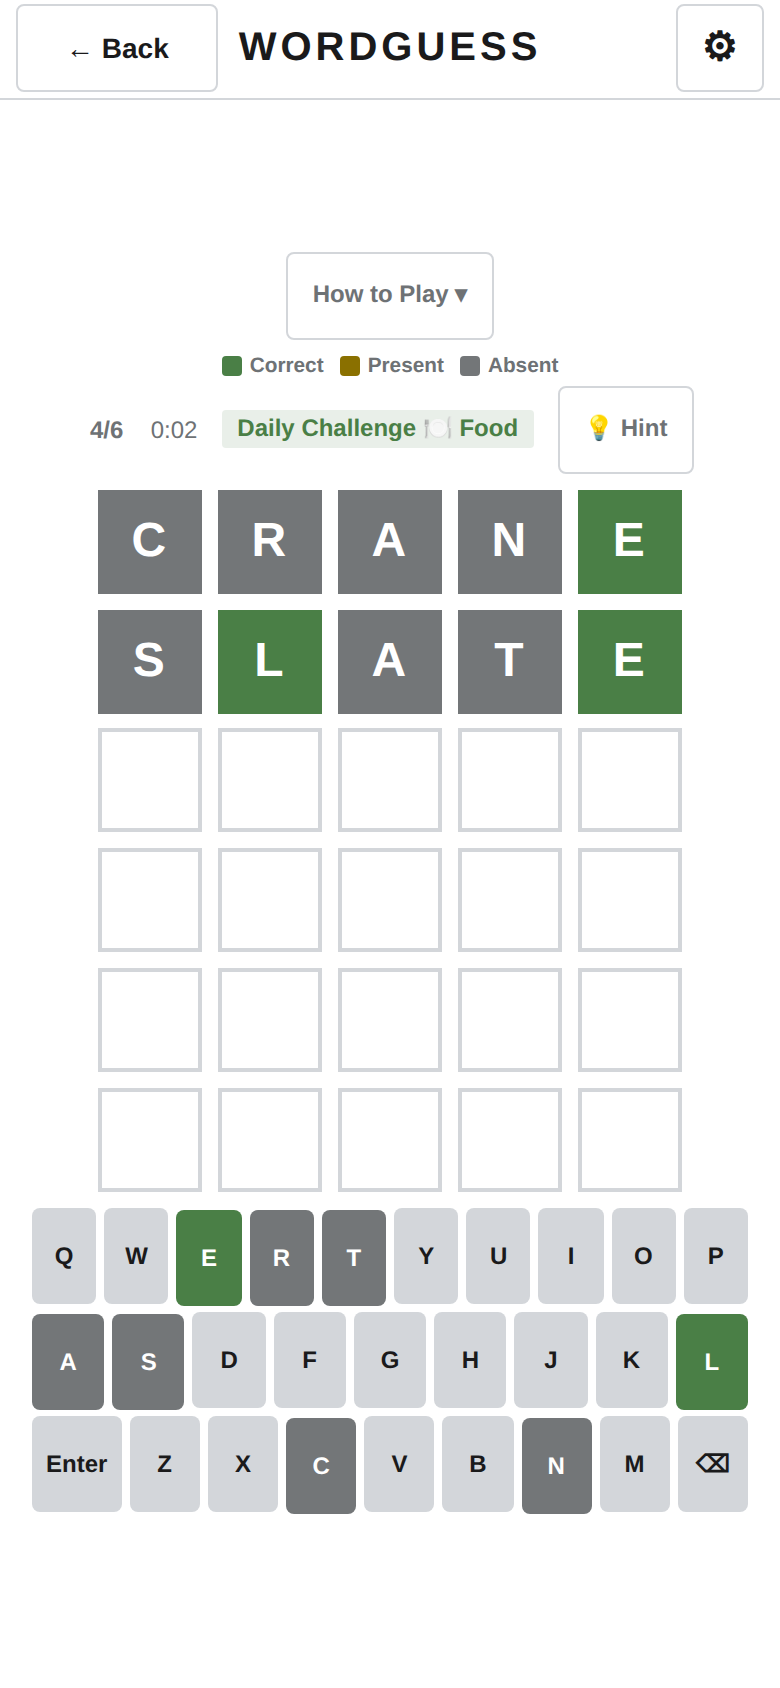
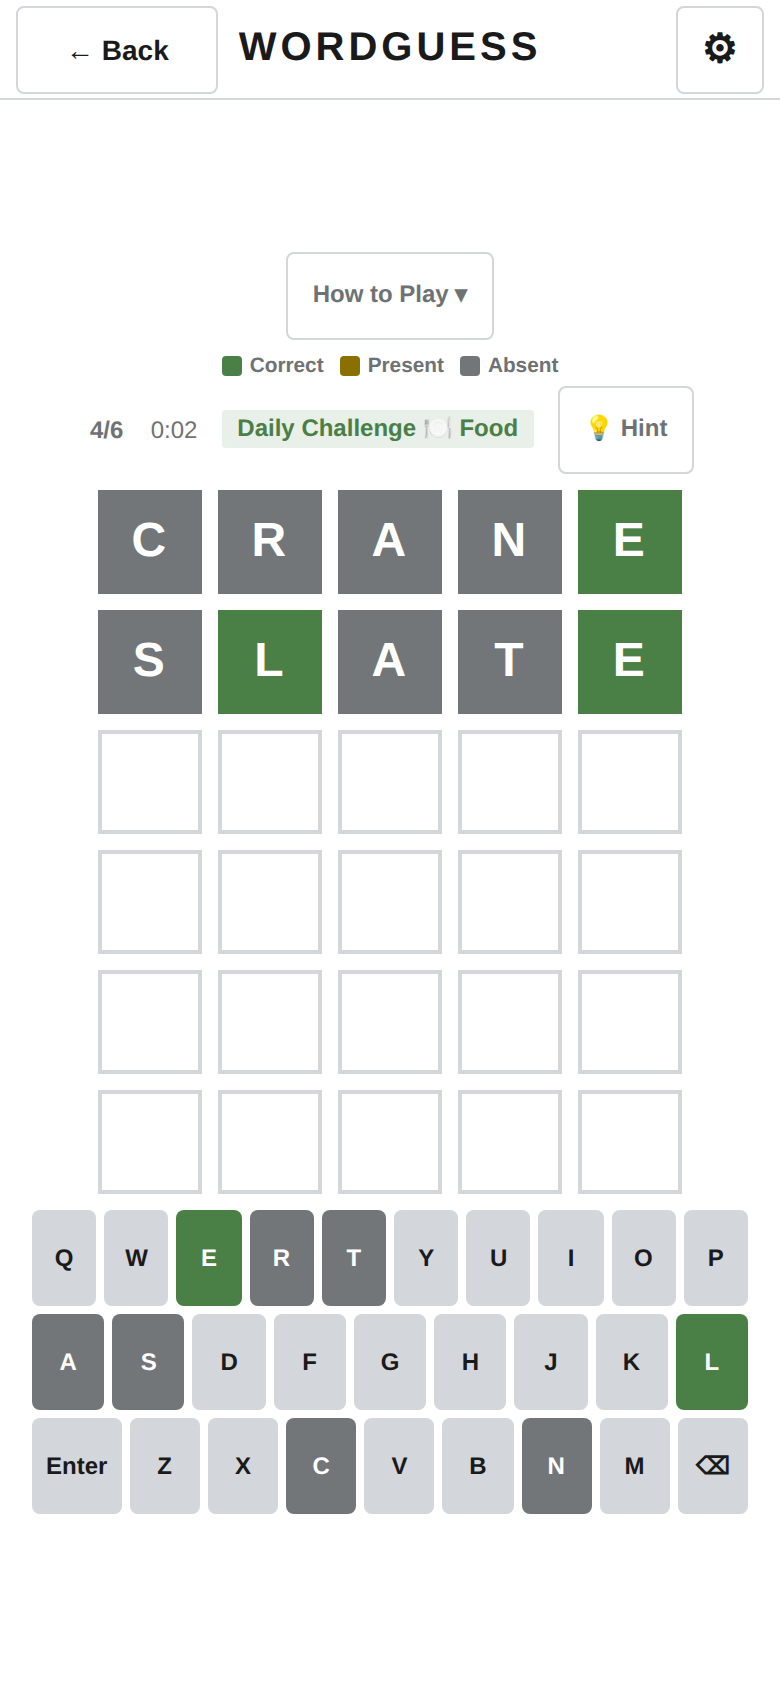
feat: landscape layout, haptics and install prompt (#11, #12, #13)
#12 was worse than "better layout for landscape phones". The stacked layout
needed 524px of height on a viewport around 390px, so the page loaded already
scrolled and the header — Back, title, settings — sat off-screen above the
fold. `.game-main` was capped at --layout-max-width 500px as well, so an 844px
wide phone used none of the width it had going spare.

A landscape tier now puts the board and keyboard side by side, drops the cap,
and shrinks tiles to 40px; tiles are not interactive, so --touch-target does
not apply to them. 667x375, 844x390 and 915x412 all fit with nothing
scrolling, and portrait keeps the stacked layout it had.

That tier had to be placed after the max-height: 600px block. Written before
it, its `.tile` rule was silently overridden — the same shadowing trap #60 was
about, reintroduced and caught by measuring rather than reading.

#11 — a 20ms tap on a submitted guess, a double pulse on a refused one, a
flourish on a win. navigator.vibrate is Chromium-and-Android only and iOS
Safari has never supported it, so it is feature-detected and the settings row
is hidden where it would do nothing.

#13 — captures beforeinstallprompt, offers a banner, calls through on click,
and clears on appinstalled. The banner stays hidden unless the browser
actually offers, so Safari and Firefox never see a dead button.

manifest.json still carried the pre-#57 #538d4e in both theme_color and its
icon, so an installed app advertised a colour the game stopped using four
[…]

diff --git a/script.js b/script.js
@@ -884,7 +884,7 @@
 
   function defaultSettings() {
     const prefersDark = window.matchMedia('(prefers-color-scheme: dark)').matches;
-    return { dark: prefersDark, hc: false, easy: false, hard: false, theme: 'all', wordLength: 5, wordDifficulty: 'any', sound: true };
+    return { dark: prefersDark, hc: false, easy: false, hard: false, theme: 'all', wordLength: 5, wordDifficulty: 'any', sound: true, haptics: true };
   }
 
   function loadSettings() {
@@ -961,6 +961,50 @@
       el.textContent = base;
     });
   }
+
+  // ── Haptics (#11) ───────────────────────────────────────────────
+  // navigator.vibrate is Android-and-Chromium only; iOS Safari has never
+  // supported it. Feature-detected rather than assumed, and the settings row
+  // stays hidden where it would do nothing.
+  const CAN_VIBRATE = typeof navigator !== 'undefined' && typeof navigator.vibrate === 'function';
+
+  function buzz(pattern) {
+    if (!CAN_VIBRATE || !loadSettings().haptics) return;
+    try { navigator.vibrate(pattern); } catch { /* some browsers gate this */ }
+  }
+
+  (function revealHapticsSetting() {
+    const row = document.querySelector('[data-haptics-row]');
+    if (row) row.hidden = !CAN_VIBRATE;
+  })();
+
+  // ── Install prompt (#13) ────────────────────────────────────────
+  // Chromium fires this instead of showing its own bar once the app qualifies;
+  // the banner stays hidden unless it does, so browsers that never fire it
+  // (Safari, Firefox) simply never see it.
+  let deferredInstall = null;
+  window.addEventListener('beforeinstallprompt', e => {
+    e.preventDefault();
+    deferredInstall = e;
+    const banner = document.querySelector('[data-install-banner]');
+    if (banner) banner.hidden = false;
+  });
+
+  window.addEventListener('appinstalled', () => {
+    deferredInstall = null;
+    const banner = document.querySelector('[data-install-banner]');
+    if (banner) banner.hidden = true;
+  });
+
+  document.addEventListener('click', async e => {
+    if (!e.target.closest('[data-install]')) return;
+    const banner = document.querySelector('[data-install-banner]');
+    if (!deferredInstall) { if (banner) banner.hidden = true; return; }
+    deferredInstall.prompt();
+    await deferredInstall.userChoice.catch(() => {});
+    deferredInstall = null;
+    if (banner) banner.hidden = true;
+  });
 
   // CLAUDE.md allows one global, `window.WG`. Exposed so the suites can check
   // the difficulty ordering directly instead of inferring it from samples.
@@ -1632,6 +1676,7 @@
       shakeRow(eng.currentRow);
       toast(t('not_enough'));
       if (loadSettings().sound) Sound.buzz();
+      buzz([30, 40, 30]);
       return;
     }
 
@@ -1639,12 +1684,14 @@
       shakeRow(eng.currentRow);
       toast(t('not_valid'));
       if (loadSettings().sound) Sound.buzz();
+      buzz([30, 40, 30]);
       return;
     }
 
     if (!validateHardMode(eng.currentInput)) {
       shakeRow(eng.currentRow);
       if (loadSettings().sound) Sound.buzz();
+      buzz([30, 40, 30]);
       return;
     }
 
@@ -1652,6 +1699,7 @@
 
     const guess   = eng.currentInput;
     const states  = evaluate(guess, eng.answer);
+    buzz(20);
     eng.history.push(states);
     revealRow(eng.currentRow, guess, states);
 
@@ -1670,7 +1718,7 @@
       if (eng.tournament) updateTournamentStats(true);
       submitting = false;
       if (eng.daily) saveDaily({ date: todayStr(), done: true, won: true, guesses: eng.history.map((_, i) => getGuessText(i)), history: eng.history });
-      setTimeout(() => { bounceRow(eng.currentRow); fireConfetti(); if (loadSettings().sound) Sound.ding(); }, flipDone);
+      setTimeout(() => { bounceRow(eng.currentRow); fireConfetti(); if (loadSettings().sound) Sound.ding(); buzz([40, 60, 120]); }, flipDone);
       const winDelay = flipDone + (COLS - 1) * BOUNCE_STAGGER + BOUNCE_MS + 200;
       if (eng.timed) {
         // The run continues: bank the word and deal another.

diff --git a/style.css b/style.css
@@ -353,6 +353,25 @@ body {
 /* ── Word length selector ───────────────────────────────────── */
 /* Sits between the theme chips and the length chips, so it must hold its height
    whether or not it has text — otherwise every theme change nudges the layout. */
+.install-banner {
+  display: flex;
+  flex-direction: column;
+  align-items: center;
+  gap: var(--space-2);
+  width: 100%;
+  max-width: var(--menu-max-width);
+  padding: var(--space-3);
+  border: var(--border-width) solid var(--color-border);
+  border-radius: var(--radius-md);
+  font-size: var(--font-size-xs);
+  color: var(--color-text-muted);
+  text-align: center;
+}
+
+.install-banner[hidden] { display: none; }
+
+.btn-install { width: 100%; }
+
 .theme-preview {
   margin: 0;
   min-height: 1.2em;
@@ -1262,4 +1281,43 @@ body {
   .game-legend { display: none; }
   .btn-howto   { display: none; }
   .howto-details { display: none; }
+}
+
+/* Landscape phones. The stacked layout needs 524px of height on a viewport
+   around 390px, so the page loads already scrolled and the header — Back,
+   title and settings — sits off-screen above. There is plenty of width going
+   spare at these sizes, so the board and keyboard go side by side and the
+   500px content cap comes off. */
+@media (orientation: landscape) and (max-height: 520px) {
+  .game-main {
+    flex-direction: row;
+    flex-wrap: wrap;
+    align-items: center;
+    justify-content: center;
+    max-width: none;
+    gap: var(--space-2);
+    padding: var(--space-1) var(--space-4);
+  }
+
+  /* The toolbar keeps a line of its own above the two columns. */
+  .game-toolbar {
+    flex: 0 0 100%;
+    flex-direction: row;
+    justify-content: center;
+  }
+
+  .grid     { flex: 0 0 auto; gap: 3px; }
+  /* Tiles are not interactive, so `--touch-target` does not apply to them and
+     they can go below it to buy back the height the six rows need. */
+  .tile     { width: 40px; height: 40px; font-size: var(--font-size-base); }
+
+  /* Shrinkable, so the narrowest landscape phones do not wrap it back under
+     the board and reintroduce the scrolling this tier exists to remove. */
+  .keyboard {
+    flex: 1 1 300px;
+    width: auto;
+    min-width: 0;
+    max-width: 460px;
+    padding-bottom: 0;
+  }
 }

diff --git a/i18n.js b/i18n.js
@@ -9,6 +9,9 @@ const TRANSLATIONS = {
     htp_hint:      'Use your keyboard or tap the on-screen keys. Stuck? Press 💡 Hint to reveal one letter.',
     random:        'Random',
     daily:         'Daily Challenge',
+    haptics:       'Vibration',
+    install:       'Install',
+    install_hint:  'Add WordGuess to your home screen',
     n_words:       '{n} words',
     one_word:      '1 word',
     no_words:      'no words',
@@ -117,6 +120,9 @@ const TRANSLATIONS = {
     htp_hint:      'သင့်ကီးဘုတ်ကို အသုံးပြုပါ သို့မဟုတ် စခရင်ပေါ်ရှိ ခလုတ်များကို နှိပ်ပါ။ မစဉ်းစားနိုင်တော့ပါက စာလုံးတစ်လုံး ဖော်ထုတ်ရန် 💡 Hint ခလုတ်ကို နှိပ်ပါ။',
     random:        'ကျပန်း',
     daily:         'နေ့စဉ် စိန်ခေါ်မှု',
+    haptics:       'တုန်ခါမှု',
+    install:       'ထည့်သွင်းရန်',
+    install_hint:  'WordGuess ကို ပင်မစခရင်တွင် ထည့်ပါ',
     n_words:       'စကားလုံး {n} လုံး',
     one_word:      'စကားလုံး ၁ လုံး',
     no_words:      'စကားလုံး မရှိ',

diff --git a/index.html b/index.html
@@ -75,6 +75,10 @@
         <button class="btn btn-primary btn-lang btn-practice" data-target="en" data-practice data-i18n="practice">Practice</button>
         <button class="btn btn-ghost btn-lang" data-stats-open data-i18n="stats">Stats</button>
       </div>
+      <div class="install-banner" data-install-banner hidden>
+        <span data-i18n="install_hint">Add WordGuess to your home screen</span>
+        <button class="btn btn-primary btn-install" data-install data-i18n="install">Install</button>
+      </div>
       <div class="lang-switcher" data-lang-switcher>
         <button class="lang-btn active" data-lang="en">English</button>
         <button class="lang-btn" data-lang="my">မြန်မာ</button>
@@ -233,6 +237,10 @@
         <label class="setting-row">
           <span class="setting-label" data-i18n="sound">Sound Effects</span>
           <input type="checkbox" class="toggle" data-setting="sound">
+        </label>
+        <label class="setting-row" data-haptics-row hidden>
+          <span class="setting-label" data-i18n="haptics">Vibration</span>
+          <input type="checkbox" class="toggle" data-setting="haptics">
         </label>
         <div class="setting-row">
           <span class="setting-label" data-i18n="language">Language</span>

diff --git a/TODO.md b/TODO.md
@@ -188,12 +188,12 @@ agent's report and should be reproduced before being acted on.
 ### Mobile
 | # | Feature | Effort | Notes |
 |---|---------|--------|-------|
-| 11 | **Haptic feedback** | Small | Vibrate on guess submit (mobile only) |
-| 12 | **Landscape mode** | Medium | Better layout for landscape phones |
+| 11 | ~~**Haptic feedback**~~ | ~~Small~~ | ~~Done 2026-08-11~~ ✅ — a 20ms tap on a submitted guess, a `[30,40,30]` double pulse on a refused one, a short flourish on a win. Feature-detected: `navigator.vibrate` is Chromium-and-Android only and iOS Safari has never supported it, so the settings row is hidden entirely where it would do nothing. Guarded both ways — that a browser without vibration still plays, and that nothing fires with the setting off |
+| 12 | ~~**Landscape mode**~~ | ~~Medium~~ | ~~Done 2026-08-11~~ ✅ — worse than 'better layout': the stacked layout needed **524px of height on a ~390px viewport**, so the page loaded already scrolled with the header (Back, title, settings) off-screen above the fold. `.game-main` was also capped at `--layout-max-width` 500px, so an 844px-wide phone used none of its width. New `(orientation: landscape) and (max-height: 520px)` tier puts board and keyboard side by side, drops the cap, and shrinks tiles to 40px — they are not interactive, so `--touch-target` does not apply. Now fits with no scrolling at 667×375, 844×390 and 915×412. The tier had to go **after** the `max-height: 600px` block or that one shadowed its `.tile` rule — the same trap as #60 |
 | 50 | ~~**Mobile header overlaps**~~ | ~~Trivial~~ | ~~Fixed 2026-08-06~~ ✅ — the header was `justify-content: center` with both buttons absolutely positioned, so "← Back" sat on top of the title (13px of overlap at 390px, 28px at 360, 48px at 320). Now a `1fr auto 1fr` grid, so the buttons take real space. The title also drops to `--font-size-lg` under 480px, without which the three tracks pushed 13px past the edge at 320px |
 | 51 | ~~**Keyboard below the fold at 1280×800**~~ | ~~Small~~ | ~~Fixed 2026-08-06~~ ✅ — new `@media (max-height: 880px)` tier drops to `--tile-size-sm`/`--key-height-sm` and tighter gaps. Keyboard bottom went 850 → 748 at 1280×800, 850 → 708 at 1280×720, 850 → 732 at 1366×768. 1440×900 and taller keep the full 62px tile |
 | 52 | ~~**"Share Tournament" shows in non-tournament results**~~ | ~~Trivial~~ | ~~Fixed 2026-08-06~~ ✅ — `setModal()` now hides it unless `eng.tournament`. Verified in a browser: hidden after a random and a daily game, shown after a tournament game. "Challenge a Friend" still shows in every mode, which is correct — it shares the word you just played |
-| 13 | **PWA install prompt** | Small | Show "Add to Home Screen" banner |
+| 13 | ~~**PWA install prompt**~~ | ~~Small~~ | ~~Done 2026-08-11~~ ✅ — captures `beforeinstallprompt`, shows a banner on the menu, and calls through on click; `appinstalled` clears it. The banner stays hidden unless the browser actually offers, so Safari and Firefox never see a button that would do nothing. Found while here: `manifest.json` still carried the pre-#57 `#538d4e` in both `theme_color` and the icon, so the installed app advertised a colour the game no longer uses. The suite now asserts the manifest and the `theme-color` meta both match `--color-accent` |
 
 ### Accessibility
 | # | Feature | Effort | Notes |
